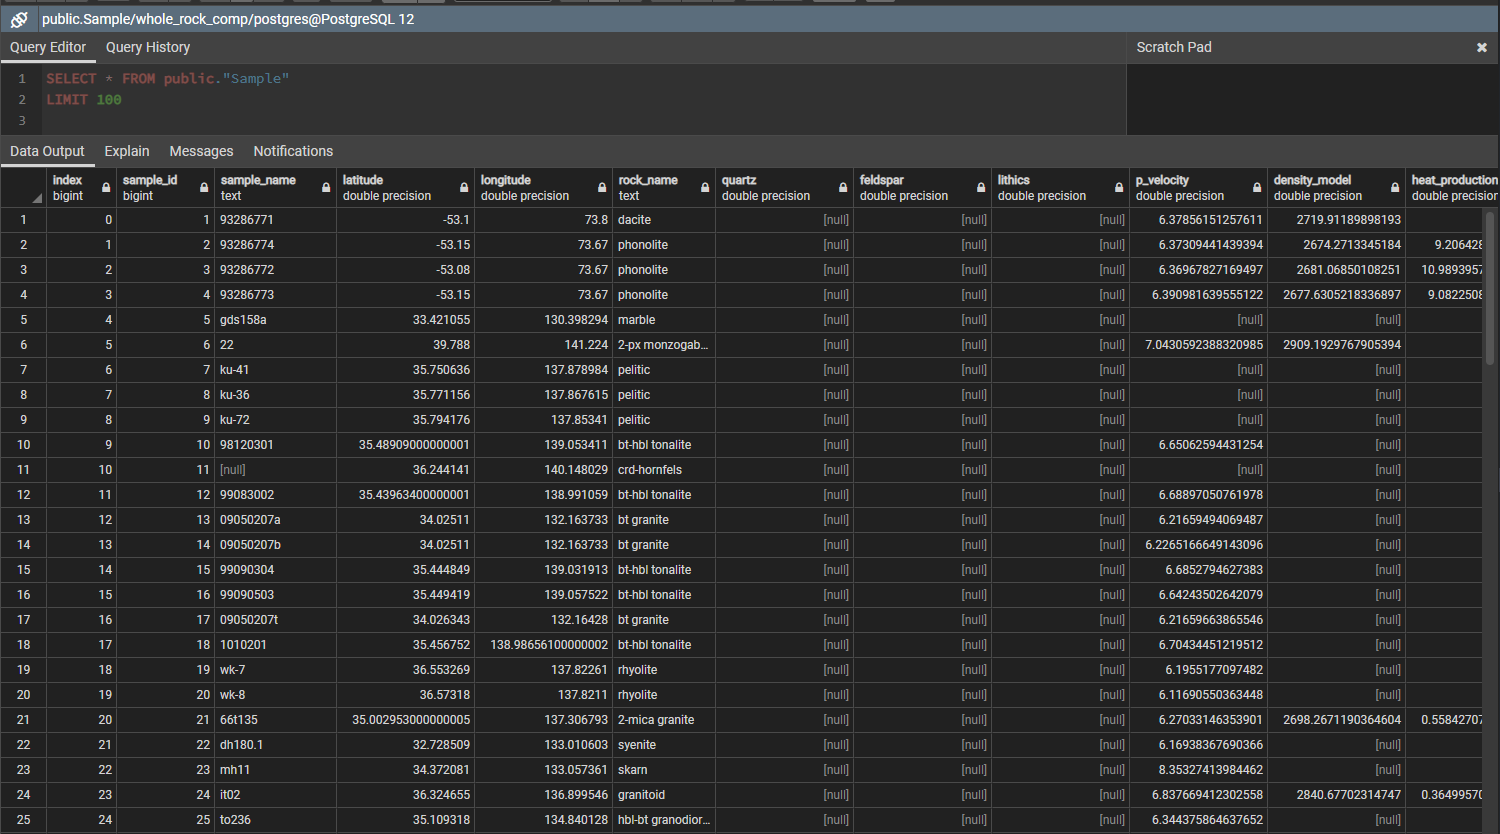
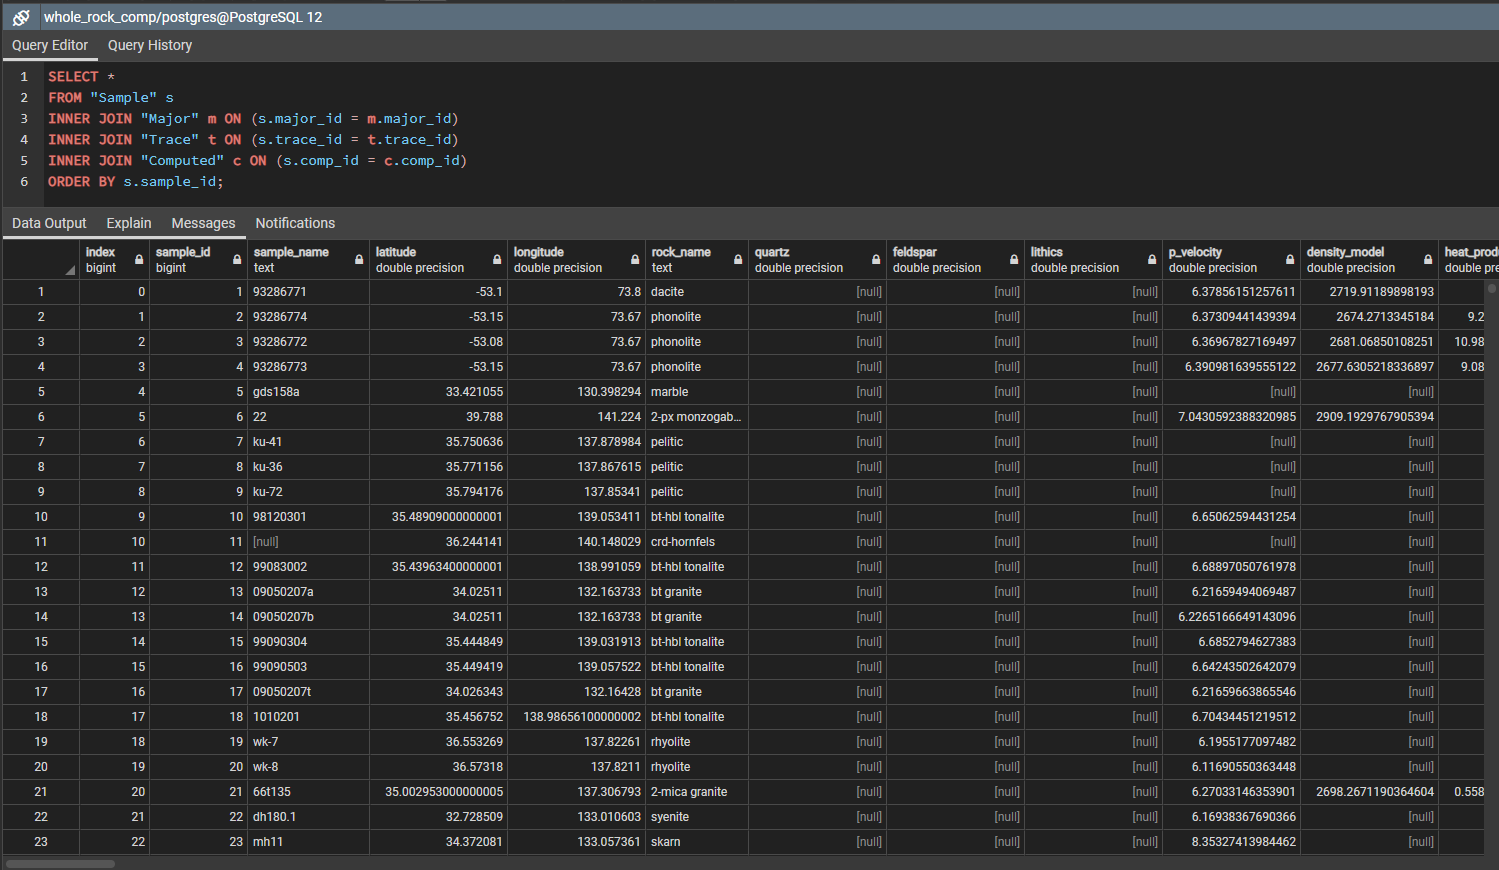
Updating README.md Adding SQL.

Changed region(s): [[0.0, 0.0, 1.0, 0.9976]]

diff --git a/Database_Week1.md b/Database_Week1.md
@@ -22,8 +22,12 @@ The image below shows a sample part of the code the creates all the necessary ta
 
 ![SQL:](Resources/CreateTable_SQL.png)
 
+The following image shows and SQL statement thank joins the Major, Trace, and Computed tables to the Sample table.
+
+![Table Joins:](Resources/TableJoin.PNG)
+
 ### PostgreSQL
 
 The screenshot below shows a sample of the data in the Sample table in PostgreSQL. We will explore writing SQL code to create table joins and query the attributes for mapping and machine learning purposes.
 
-![PostgreSQL:](Resources/PostgreSQL.png)
+![PostgreSQL:](Resources/PostgreSQL.PNG)
